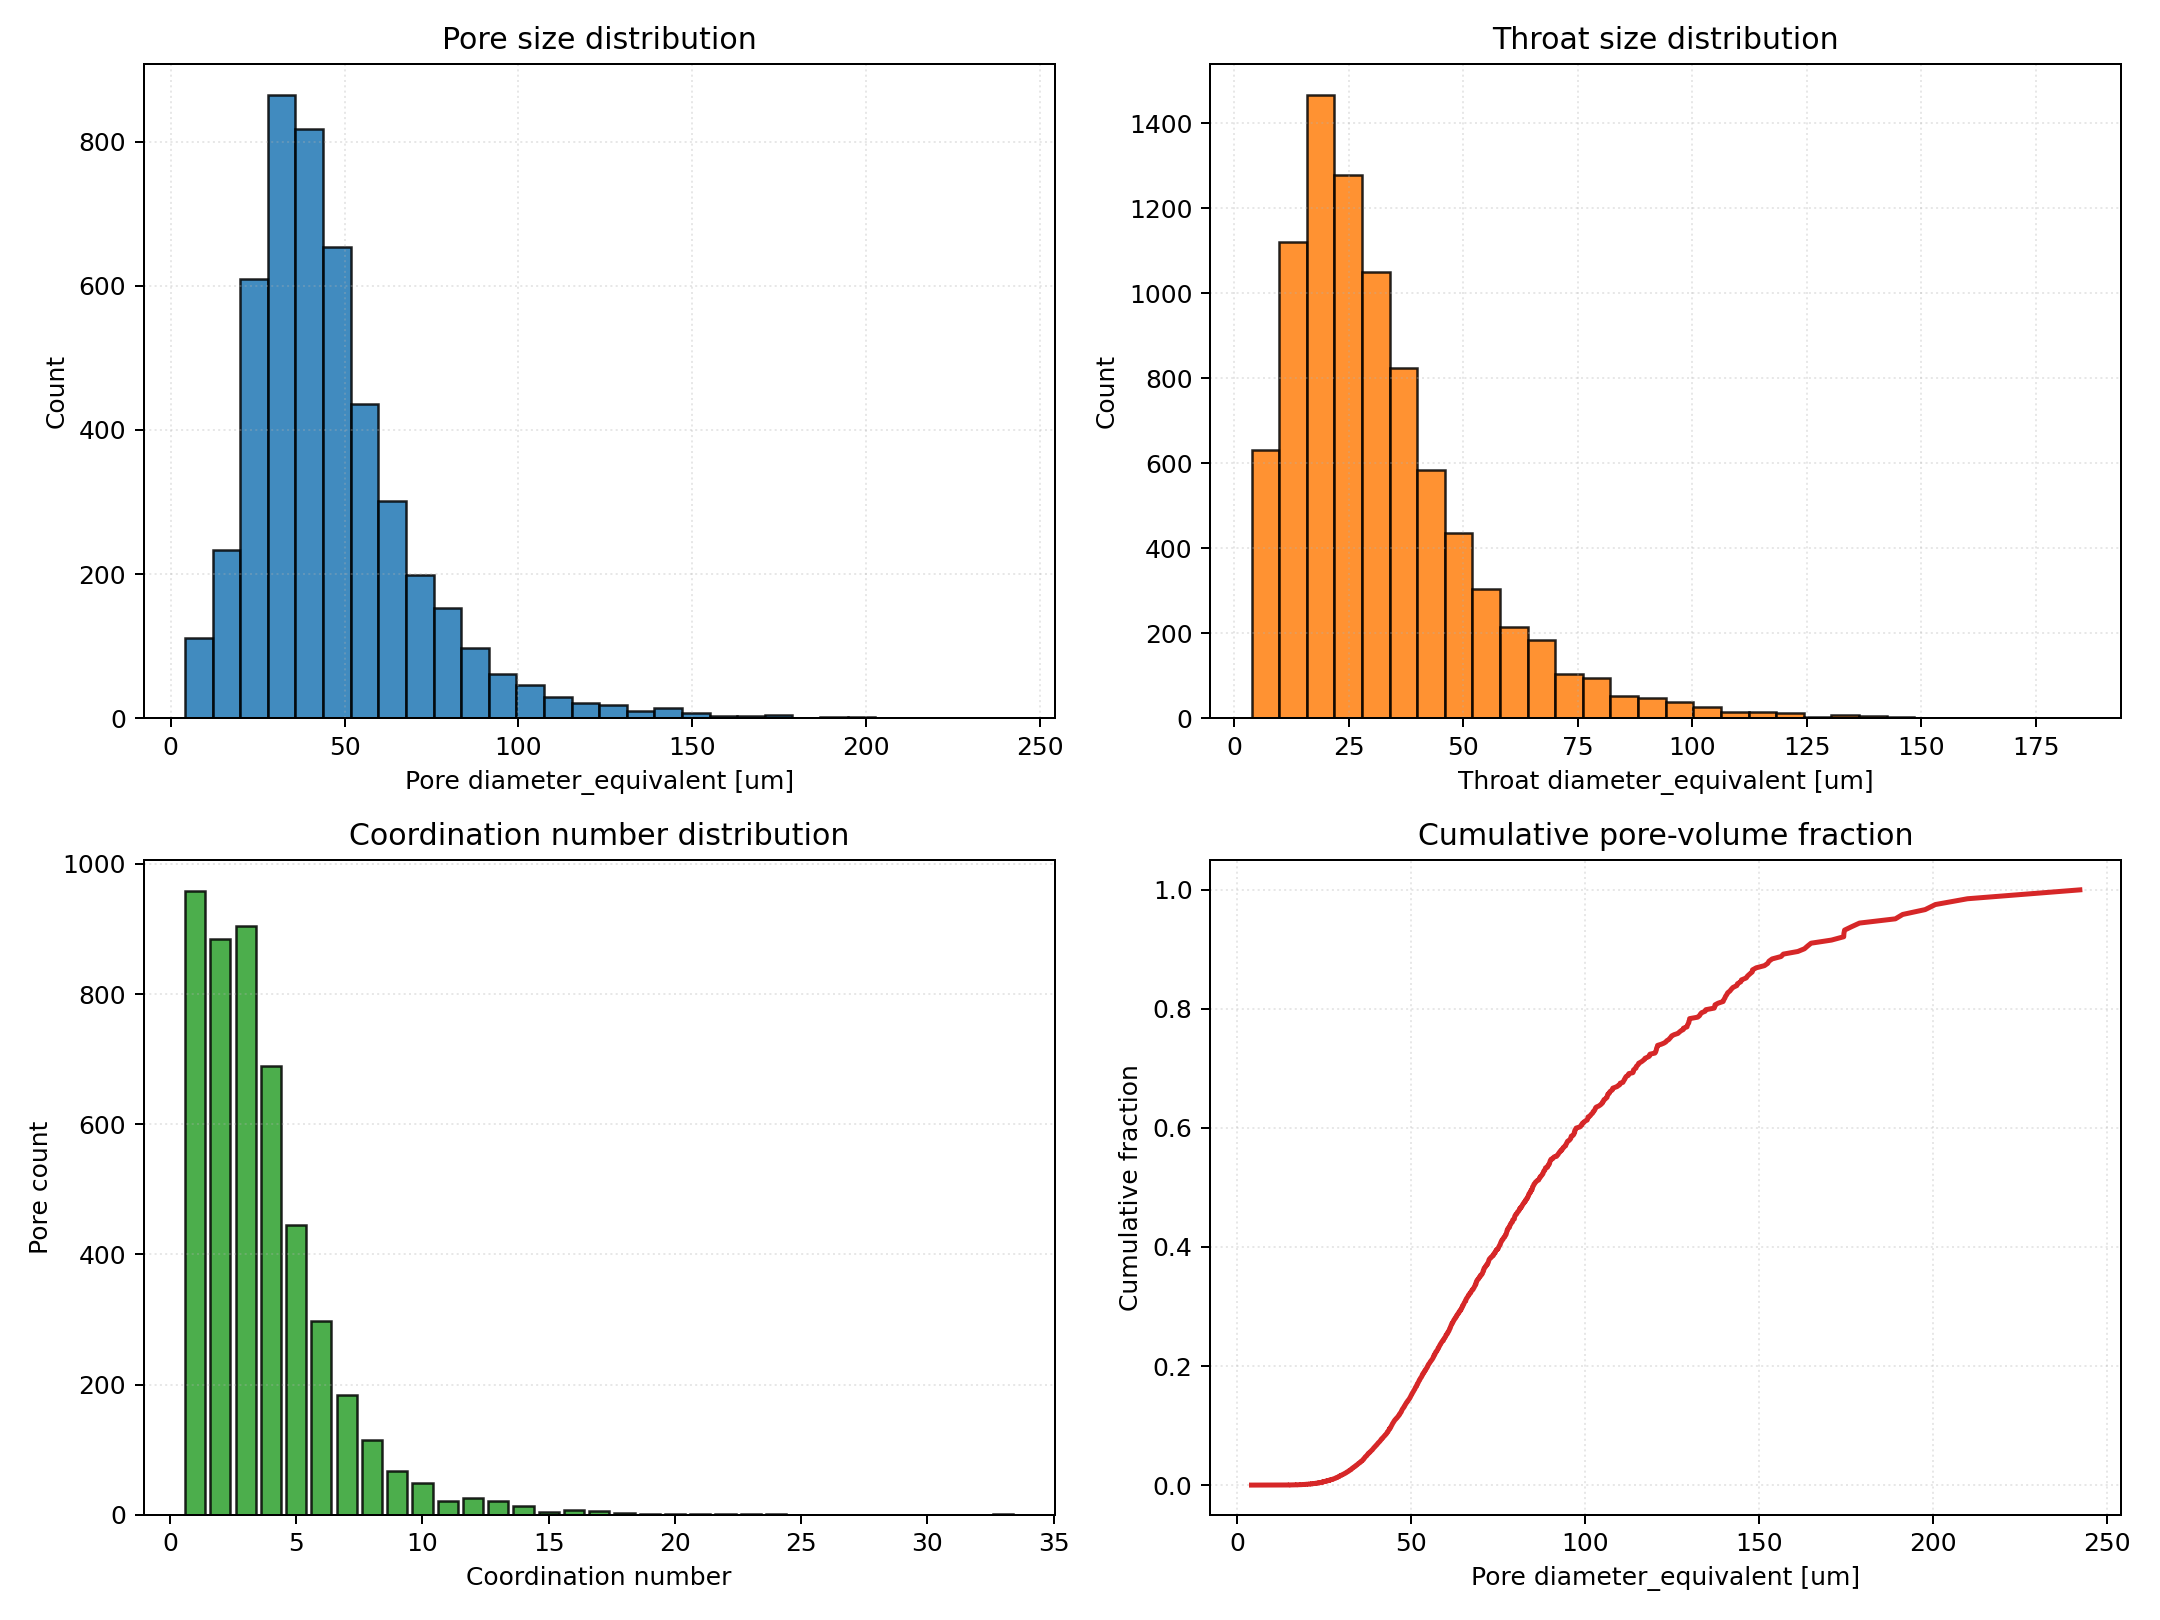
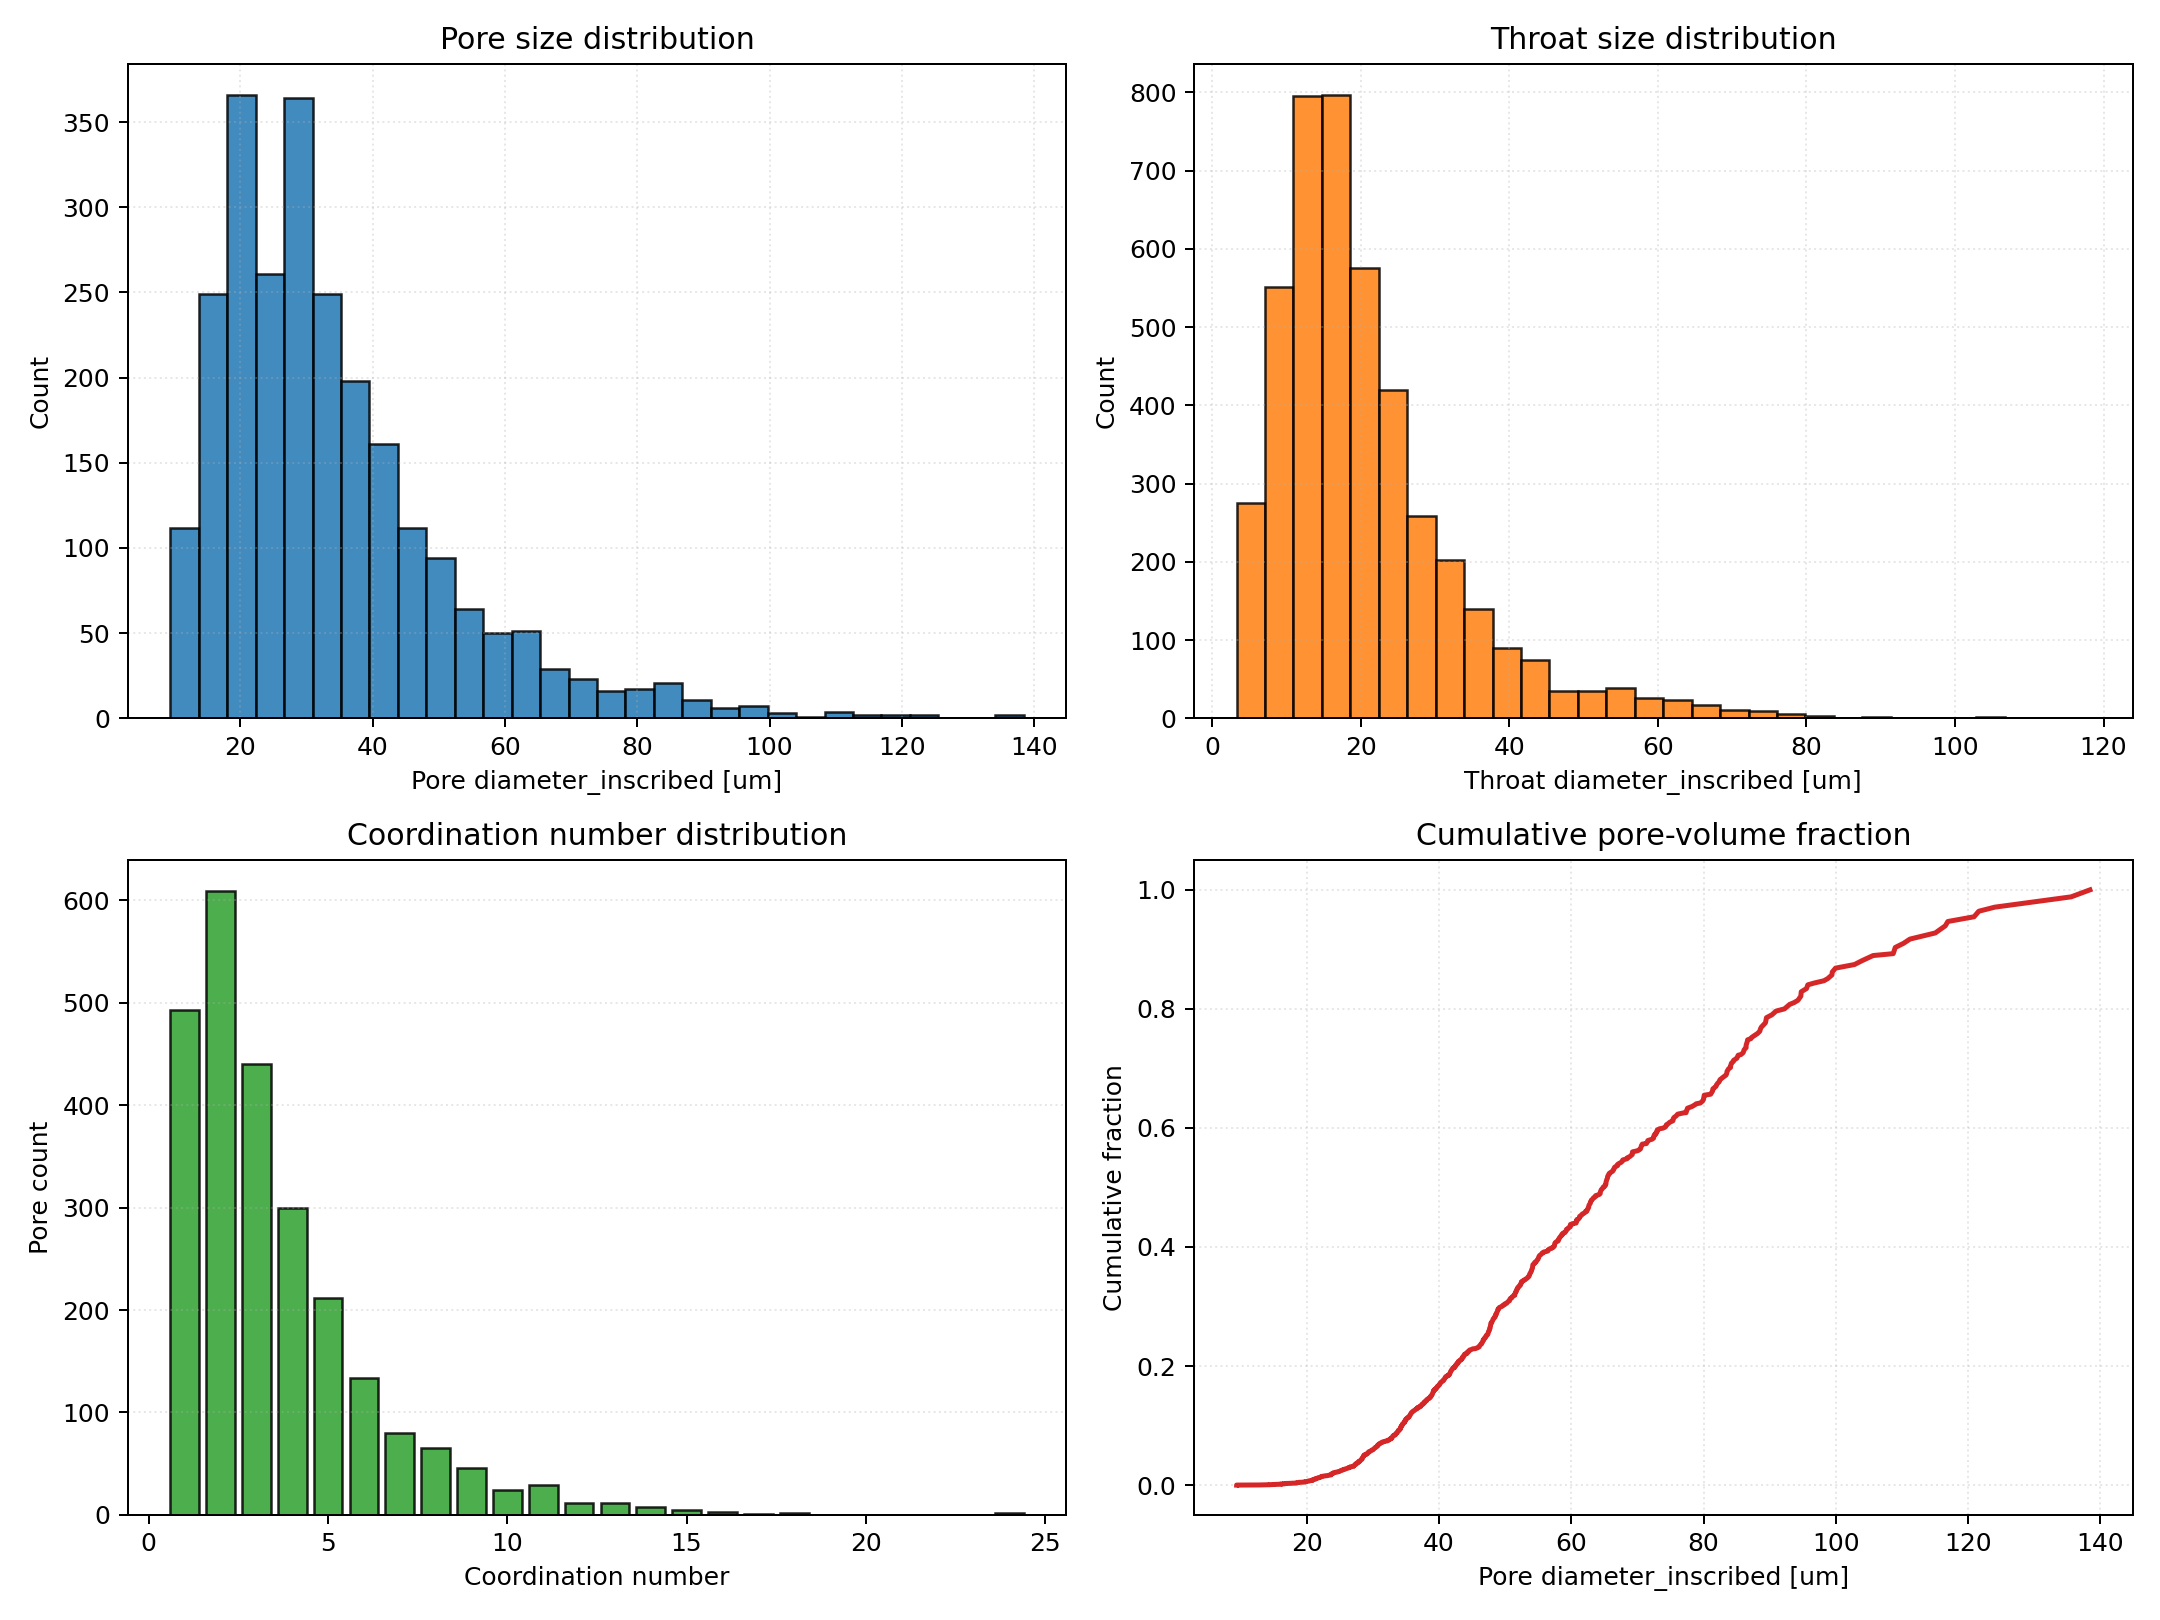
Rerun 31 ipynb now using optimized maximal balls

diff --git a/notebooks/31_mwe_drp10_estaillades_raw_porosity_perm.py b/notebooks/31_mwe_drp10_estaillades_raw_porosity_perm.py
@@ -40,6 +40,7 @@
 #   <https://doi.org/10.1016/j.advwatres.2015.05.019>
 
 # %%
+import os
 from pathlib import Path
 
 import matplotlib.pyplot as plt
@@ -93,9 +94,16 @@ paper_citation = (
 
 # Modeling controls
 flow_axis = "x"  # Paper computes absolute permeability left-to-right.
-compute_directional_all_axes = True
 trim_nonpercolating_paths = True
-geometry_repairs: str | None = "imperial_export"
+extraction_backend = "native_maximal_ball"
+compute_directional_all_axes = True
+edt_parallel_threads = min(4, os.cpu_count() or 1)
+extraction_kwargs: dict[str, object] = {
+    "distance_map_backend": "auto",
+    "edt_parallel_threads": edt_parallel_threads,
+    "flow_boundary_mode": "direct",
+}
+geometry_repairs: str | None = None
 conductance_models: tuple[str, ...] = ("valvatne_blunt",)
 
 pressure_gradient_pa_per_m = 1.0e4
@@ -451,9 +459,11 @@ def extract_axis_network(axis: str):
     extract_axis = extract_spanning_pore_network(
         axis_image,
         voxel_size=voxel_size_m,
+        backend=extraction_backend,
         flow_axis=axis,
         length_unit="m",
         geometry_repairs=geometry_repairs,
+        extraction_kwargs=extraction_kwargs,
         provenance_notes={
             "raw_source": str(raw_relpath).replace("\\", "/"),
             "raw_shape_voxels": raw_shape,
@@ -466,6 +476,8 @@ def extract_axis_network(axis: str):
             "paper_citation": paper_citation,
             "trim_nonpercolating_paths": trim_nonpercolating_paths,
             "conductance_models": list(conductance_models),
+            "extraction_backend": extraction_backend,
+            "extraction_kwargs": dict(extraction_kwargs),
             "geometry_repairs": geometry_repairs,
             "full_sample_analysis": True,
         },